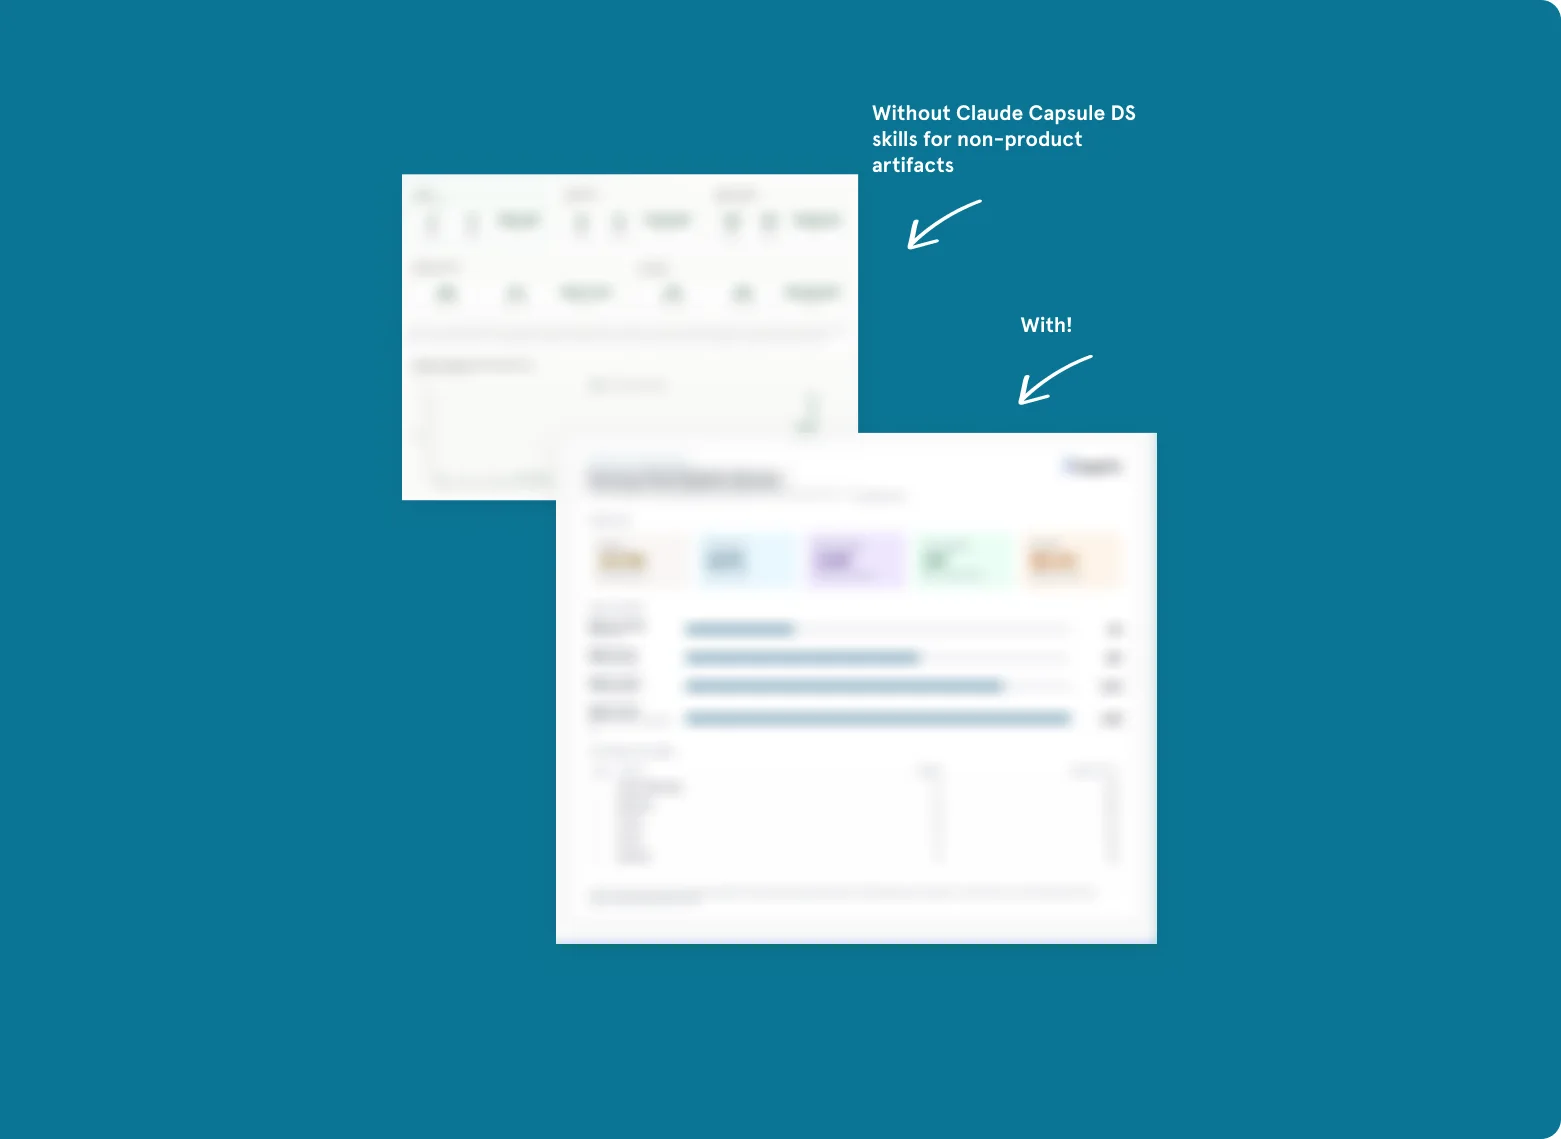
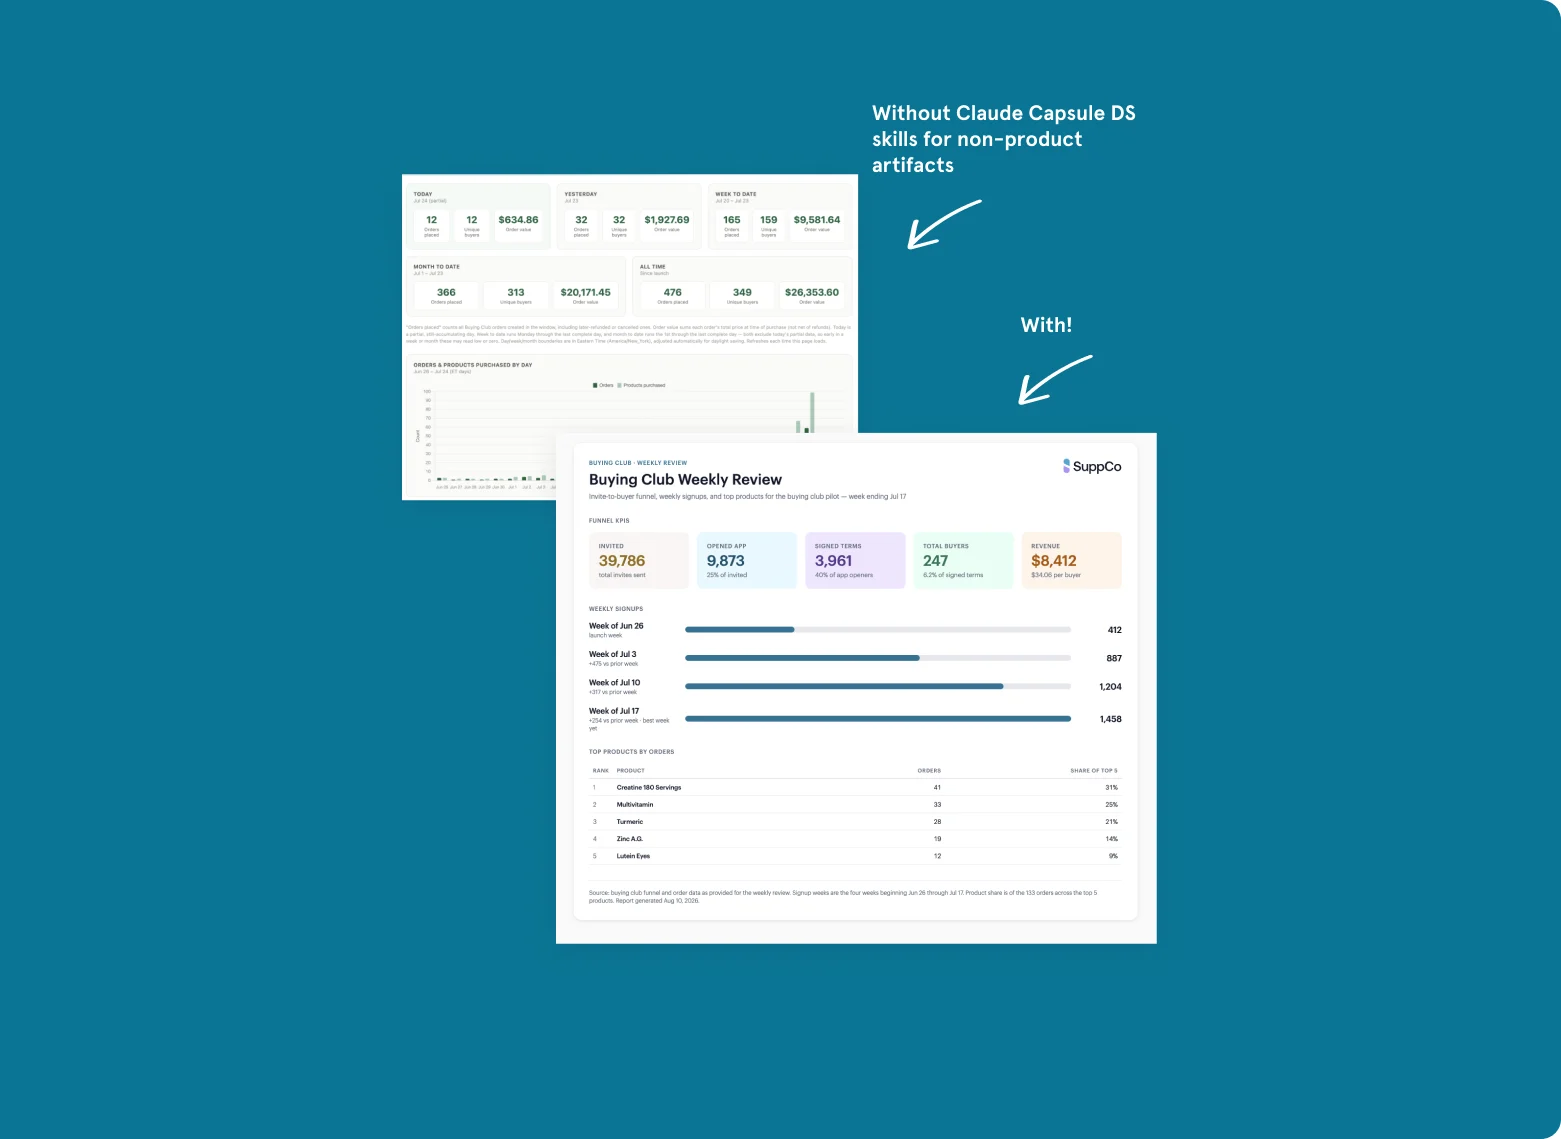
How I lead in three practices; the dashboard figure unblurred; robots allows all
- Enable others folds into Unblock the team: the lubricant line, fast
  reviews, and the research, critique and design systems that let people
  decide without me, with both practices' evidence. The home card now ends
  level with Selected work.
- Agentic Design System: the with-and-without dashboards show dummy numbers
  (Andy), so the figure is the original, captioned "dummy numbers".
- robots.txt: Andy's policy is allow all, answer engines and training.

diff --git a/src/pages/site/robots.txt.ts b/src/pages/site/robots.txt.ts
@@ -1,7 +1,7 @@
 // robots.txt for the site. Only takes effect at a domain's root, so it waits for the cutover
-// (SITE_BASE '/'). Allows everything, like the live Framer site, and points to the sitemap.
-// Andy's AI-bot policy decides whether to block training crawlers here (see the 2027 Strategy
-// note "06 - Agent engine optimization").
+// (SITE_BASE '/'). Andy's policy (Nov 9): allow every crawler, answer engines and AI training
+// alike; for a job search the goal is to be found and described accurately, and the site holds
+// nothing confidential. Points to the sitemap.
 import type { APIRoute } from 'astro';
 import { SITE_BASE, absUrl } from '../../lib/site-sections';
 
